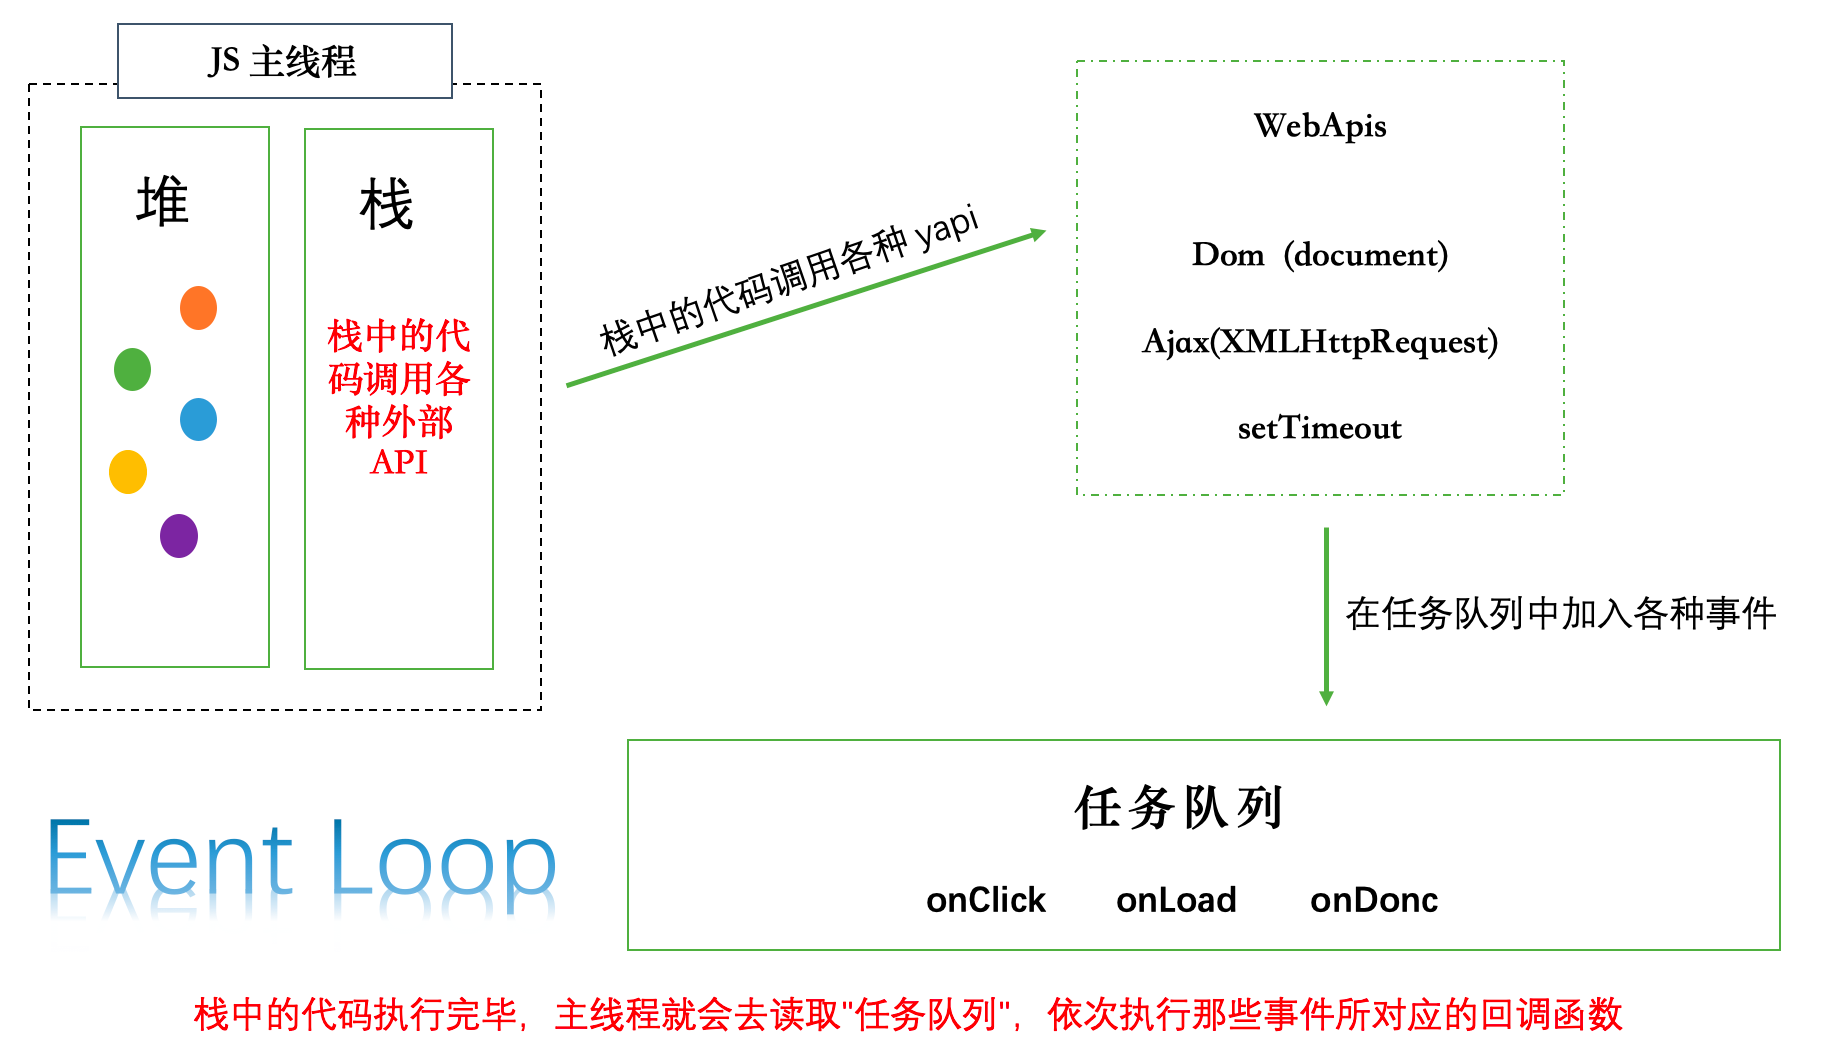
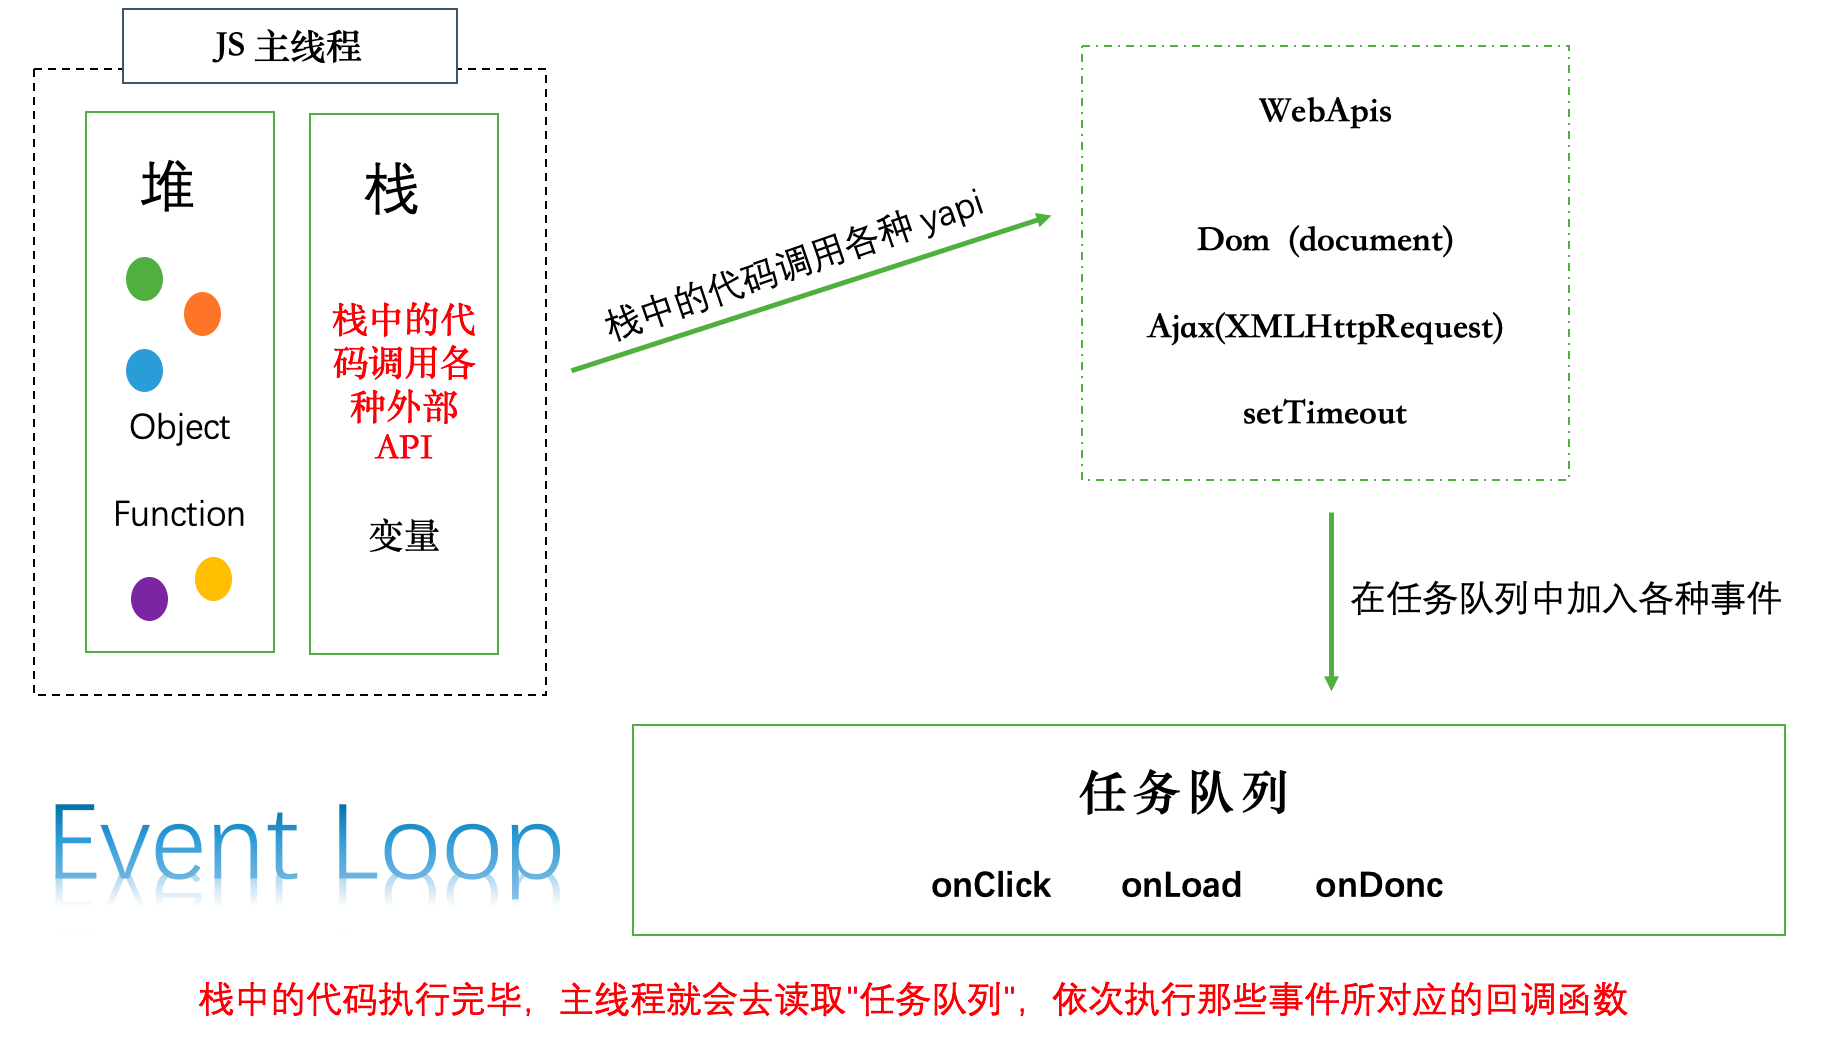
feat: 任务队列

diff --git a/docs/blog/EventLoop.md b/docs/blog/EventLoop.md
@@ -19,6 +19,8 @@
 
 ### 浏览器中的 eventLoop
 ![浏览器中的 eventLoop](eventLoop1.png)
+* 任务队列分类: 宏任务队列和微任务队列
+![浏览器中的 eventLoop](eventLoop2.png)
 
 1. 浏览器中的任务队列
 
